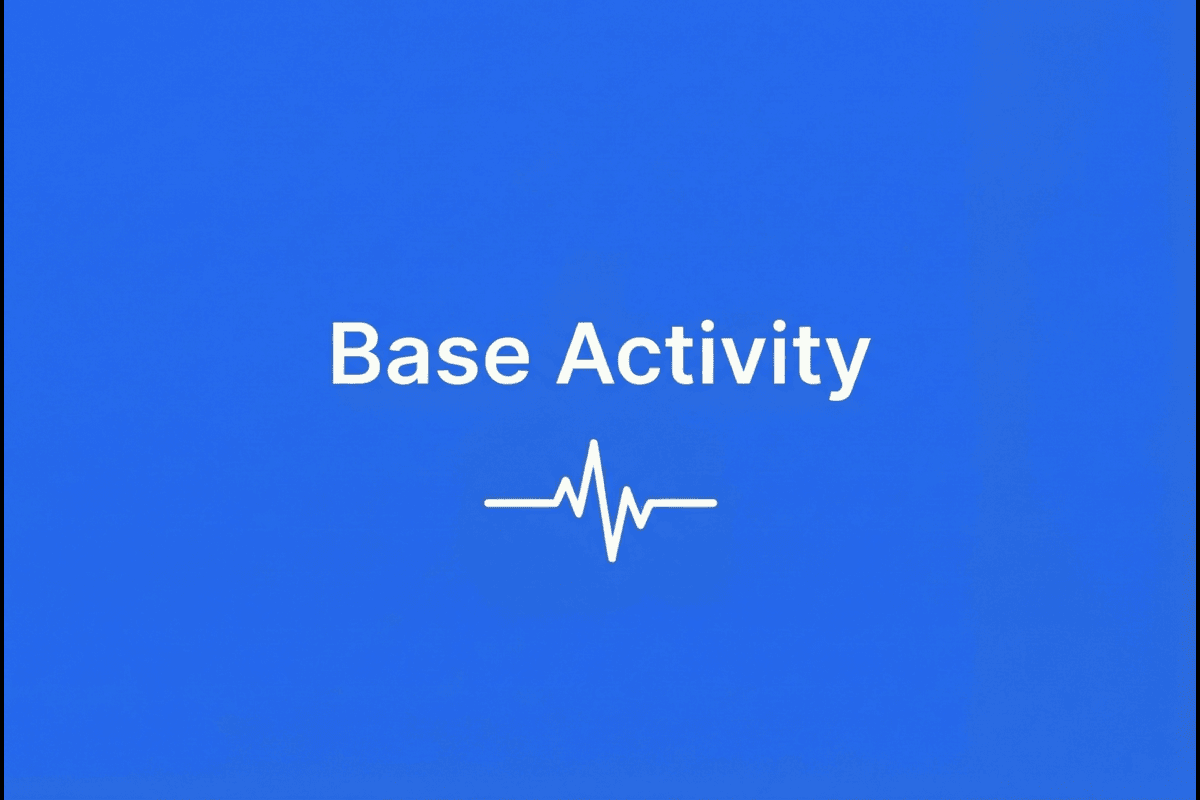
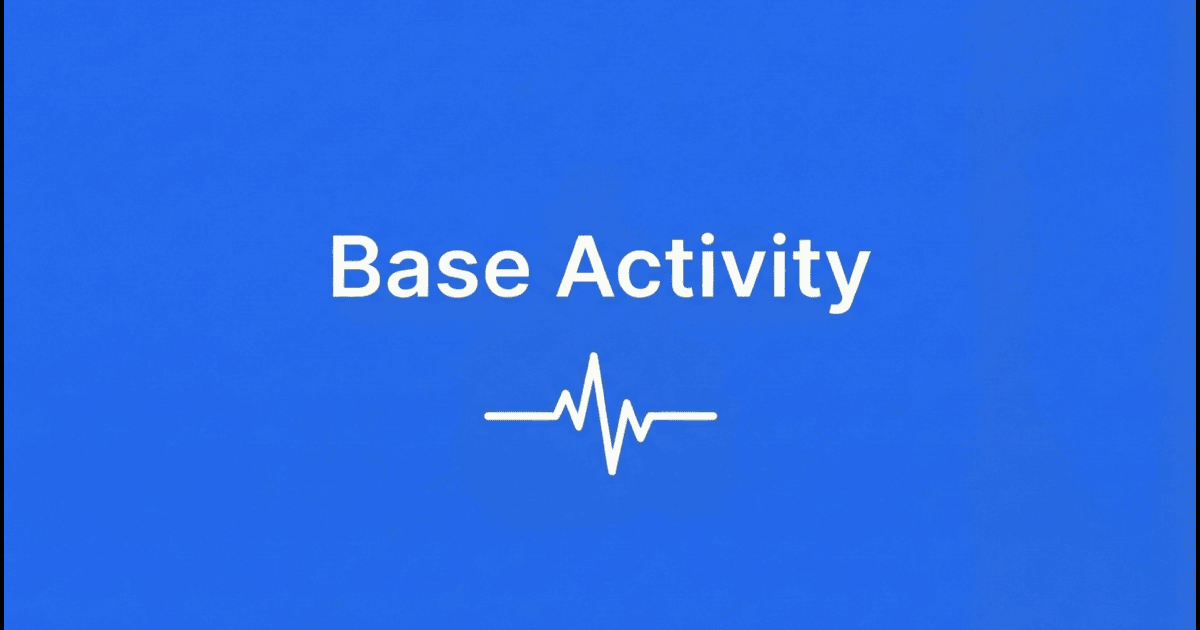
changes

Changed region(s): [[0.2775, 0.3619, 0.74, 0.5127], [0.4008, 0.5429, 0.6167, 0.754], [0.9867, 0.754, 1.0, 0.7841]]

diff --git a/src/app/layout.tsx b/src/app/layout.tsx
@@ -31,7 +31,7 @@ export const metadata: Metadata = {
       {
         url: `${APP_URL}/hero.png`,
         width: 1200,
-        height: 800,
+        height: 630,
         alt: 'Base Activity Stats Preview',
       },
     ],
